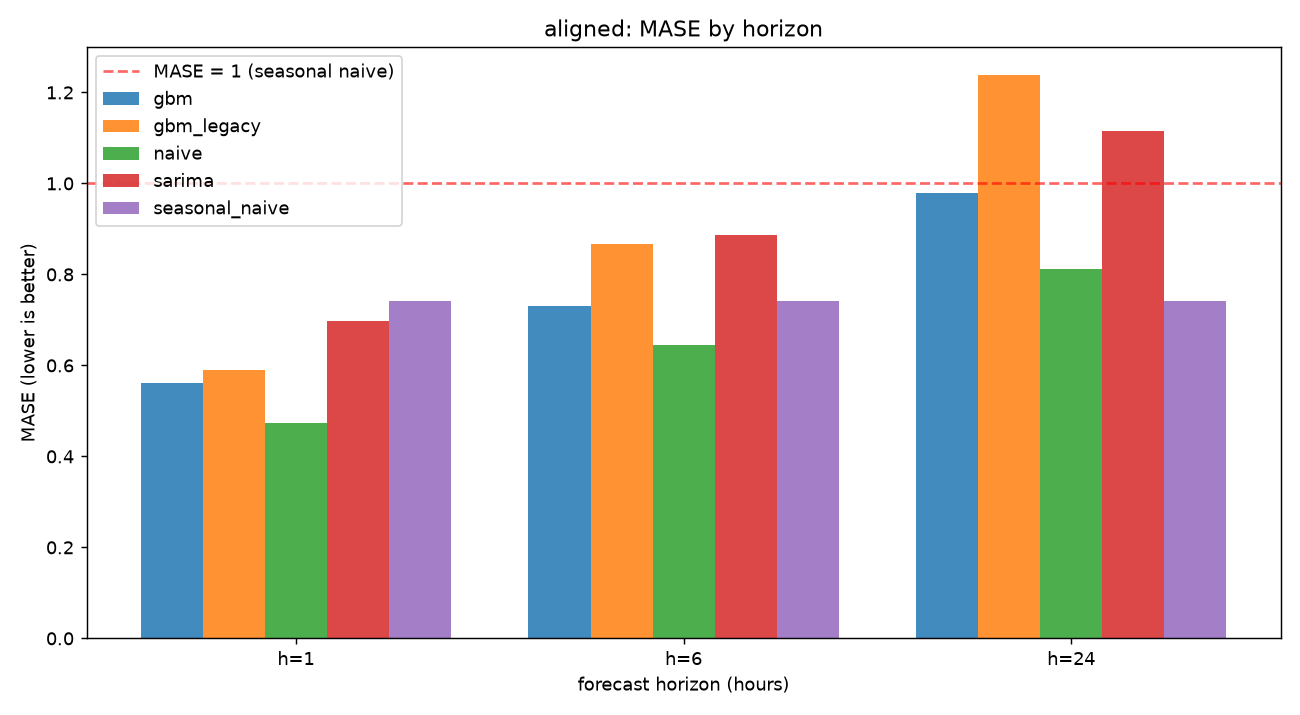
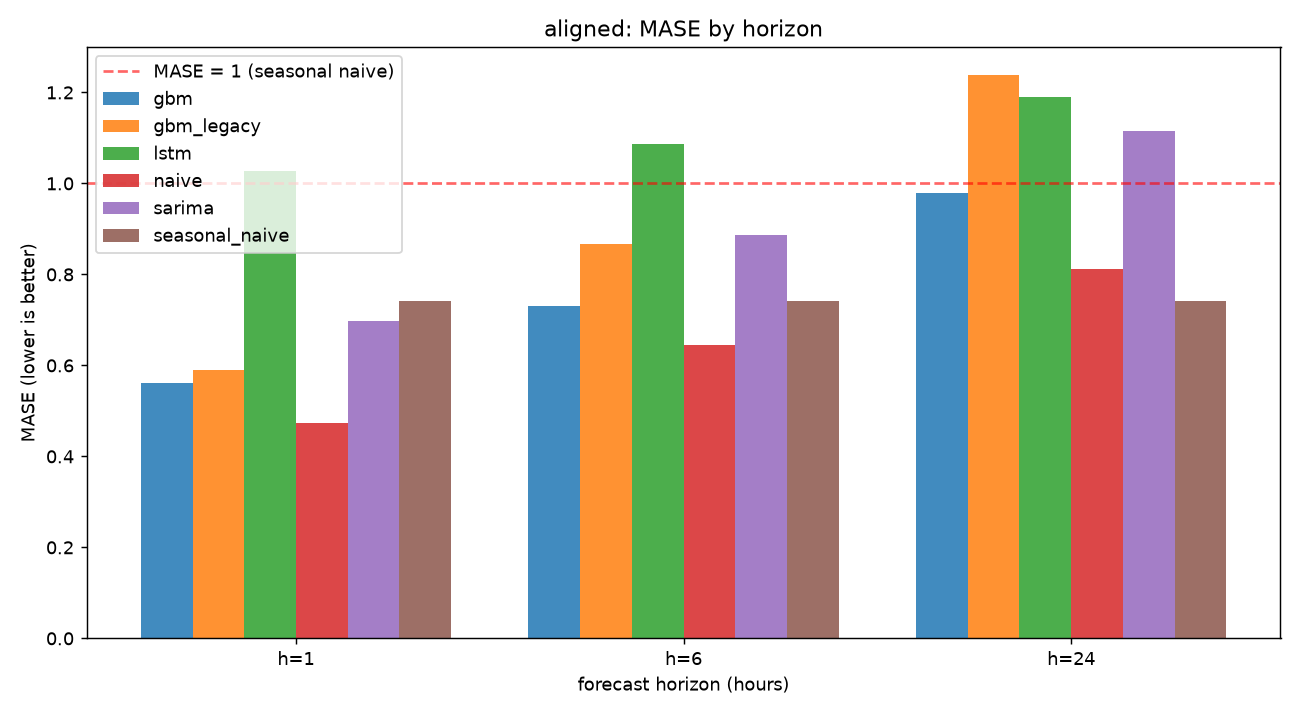
no-mistakes(review): Add aligned LSTM results to RESULTS and README

diff --git a/RESULTS.md b/RESULTS.md
@@ -84,7 +84,7 @@ Mean MASE over the same 5 folds (lower is better; < 1 beats seasonal naive):
 | SARIMA(1,1,1)(1,1,1,24) | 0.697 | 0.887 | 1.116 |
 | GBM, original features (`gbm_legacy`) | 0.589 | 0.866 | 1.238 |
 | GBM, fixed features (`gbm`) | 0.561 | 0.732 | 0.979 |
-| LSTM, 3 seeds | *running; lands with the next PR* | | |
+| LSTM, 3 seeds (committed CPU config) | 1.028 | 1.086 | 1.190 |
 
 Full per-fold table: [`experiments/results/aligned/SUMMARY.md`](experiments/results/aligned/SUMMARY.md).
 
@@ -95,6 +95,25 @@ Full per-fold table: [`experiments/results/aligned/SUMMARY.md`](experiments/resu
   and it now rests on comparable numbers.
 - The fold-to-fold spread is large (std 0.24-0.79). Fold 2 is a hard regime for
   every model, so single-split comparisons of these models would be unreliable.
+
+**The LSTM does not earn its complexity.** Scored like every other model (same 5
+folds, 3 seeds, seed spread ±0.08), it is worse than seasonal naive at every
+horizon. The original README's verdict ("beats seasonal naive overall by a
+razor-thin margin") came from mixing configurations and fold schemes (section 1).
+Per fold, 3-seed mean MASE h=1 / h=24, against the best baseline:
+
+| Fold (training hours) | LSTM h=1 | LSTM h=24 | naive h=1 | seasonal naive h=24 |
+|---|---|---|---|---|
+| 0 (2,016) | 1.854 | 1.809 | **0.317** | **0.324** |
+| 1 (6,835) | 0.328 | 0.387 | **0.261** | **0.322** |
+| 2 (11,654) | 1.716 | 2.082 | **0.876** | **1.477** |
+| 3 (16,473) | 0.534 | **0.826** | **0.419** | 0.884 |
+| 4 (21,292) | 0.709 | 0.846 | **0.491** | **0.705** |
+
+The LSTM is competitive only where training data is plentiful and the regime is
+stable (folds 1, 3, 4). It beats seasonal naive at h=24 only on fold 3. Fold 0
+is the early-stopping failure described in section 1. Fold 2 is a regime change
+that hurts every model and the LSTM most.
 
 ## 3. Leakage canaries (M1)
 

diff --git a/experiments/results/aligned/SUMMARY.md b/experiments/results/aligned/SUMMARY.md
@@ -11,21 +11,18 @@ Every model on the same 5 rolling-origin folds (the LSTM over 3 seeds), so the n
 | gbm_legacy | h=1 | **0.5892** ± 0.4168 | 0.2291 | 0.4086 | 5 folds |
 | sarima | h=1 | **0.6965** ± 0.4099 | 0.2677 | 0.5613 | 5 folds |
 | seasonal_naive | h=1 | **0.7410** ± 0.4765 | 0.2750 | 0.6219 | 5 folds |
+| lstm | h=1 | 1.0282 ± 0.0761 | 0.4701 | 0.6304 | 3 seeds |
 | naive | h=6 | **0.6442** ± 0.3025 | 0.2501 | 0.5465 | 5 folds |
 | gbm | h=6 | **0.7316** ± 0.4660 | 0.2908 | 0.4791 | 5 folds |
 | seasonal_naive | h=6 | **0.7410** ± 0.4764 | 0.2750 | 0.6220 | 5 folds |
 | gbm_legacy | h=6 | **0.8663** ± 0.6111 | 0.3382 | 0.5355 | 5 folds |
 | sarima | h=6 | **0.8866** ± 0.4757 | 0.3392 | 0.6909 | 5 folds |
+| lstm | h=6 | 1.0857 ± 0.0766 | 0.4881 | 0.6677 | 3 seeds |
 | seasonal_naive | h=24 | **0.7426** ± 0.4775 | 0.2756 | 0.6229 | 5 folds |
 | naive | h=24 | **0.8115** ± 0.4992 | 0.3066 | 0.6124 | 5 folds |
 | gbm | h=24 | **0.9787** ± 0.5988 | 0.3926 | 0.5937 | 5 folds |
 | sarima | h=24 | 1.1155 ± 0.7904 | 0.4130 | 0.8023 | 5 folds |
+| lstm | h=24 | 1.1899 ± 0.0845 | 0.5226 | 0.7307 | 3 seeds |
 | gbm_legacy | h=24 | 1.2375 ± 0.7852 | 0.4798 | 0.6983 | 5 folds |
-
-## Missing forecasts
-
-- all_models/lstm__seed42
-- all_models/lstm__seed123
-- all_models/lstm__seed456
 
 MAE/RMSE are in standardised units (z-scores of the training fold), as in the original study; MASE is scale-free.

diff --git a/README.md b/README.md
@@ -29,6 +29,10 @@ Full tables and the evidence behind every claim: **[RESULTS.md](RESULTS.md)**.
 - **Three methodology fixes** in an apples-to-apples `aligned` benchmark: one fold
   scheme for every model; a GBM train/serve calendar skew fixed (it served every
   forecast as "hour 0"); LSTM/SARIMA no longer averaged across different folds.
+- **Under one protocol the LSTM does not earn its complexity.** It is worse than
+  seasonal naive at every horizon (it is competitive only on folds with plenty of
+  data and a stable regime). The original "LSTM beats seasonal naive" verdict came
+  from mixed configurations and fold schemes.
 - **Leakage canaries with a positive control**: a shuffled future-target covariate
   must not help, while the unshuffled one must be detected as a leak.
 
@@ -41,7 +45,7 @@ Aligned benchmark, mean MASE over the same 5 rolling-origin folds:
 | SARIMA | 0.697 | 0.887 | 1.116 |
 | GBM, original features | 0.589 | 0.866 | 1.238 |
 | GBM, fixed features | 0.561 | 0.732 | 0.979 |
-| LSTM (3 seeds) | *next PR* | | |
+| LSTM (3 seeds) | 1.028 | 1.086 | 1.190 |
 
 ## Quickstart
 
